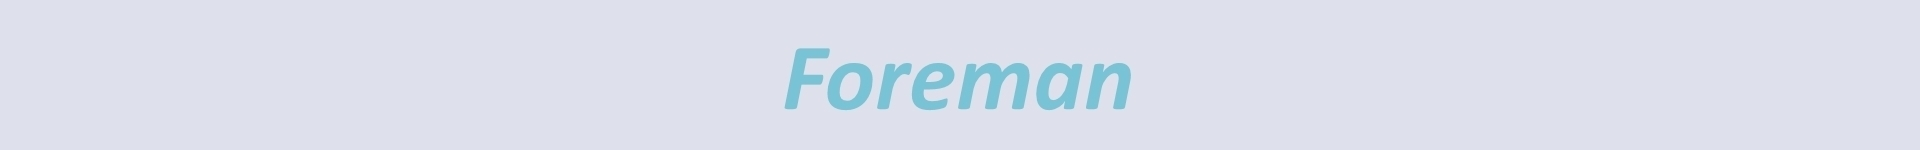
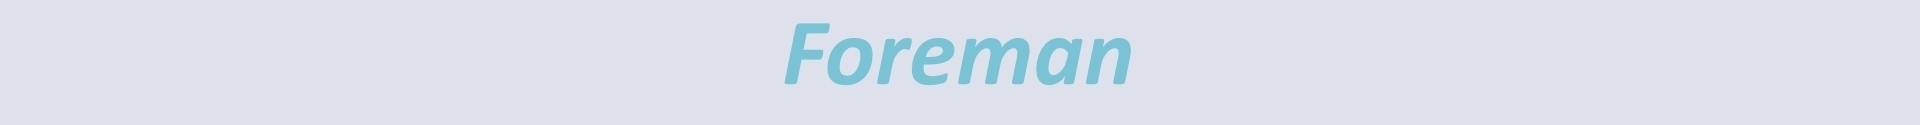
GUI: correct footer, header (change bg pictures, set height 125)

Changed region(s): [[0.4062, 0.168, 0.5938, 0.744]]

diff --git a/src/main/webapp/sources/style.css b/src/main/webapp/sources/style.css
@@ -25,7 +25,7 @@ a {
 .header {
     position : fixed;
     width: 100%;
-    height: 150px;
+    height: 125px;
     top: 0;
     background-image: url(foreman_background_header.jpg);
     background-color: #78a2b7;
@@ -39,14 +39,14 @@ a {
 .mainer {
     width: 100%;
     padding-top: 150px;
-    padding-bottom: 200px;
+    padding-bottom: 150px;
     text-align: center;
 }
 
 .footer {
     position : fixed;
     width: 100%;
-    height : 200px;
+    height : 125px;
     bottom : 0;
     background-image: url(foreman_background_footer.jpg);
     background-color: #78a2b7;
@@ -57,6 +57,15 @@ a {
     opacity: 0.85;
 }
 
+.doubledash {
+    display:inline-block;
+    width: 50%;
+    height: 550px;
+    margin-top: 0px;
+    margin-bottom: 200px;
+    float: left;
+    overflow-y: scroll;
+}
 
 
 .linearbutton {
